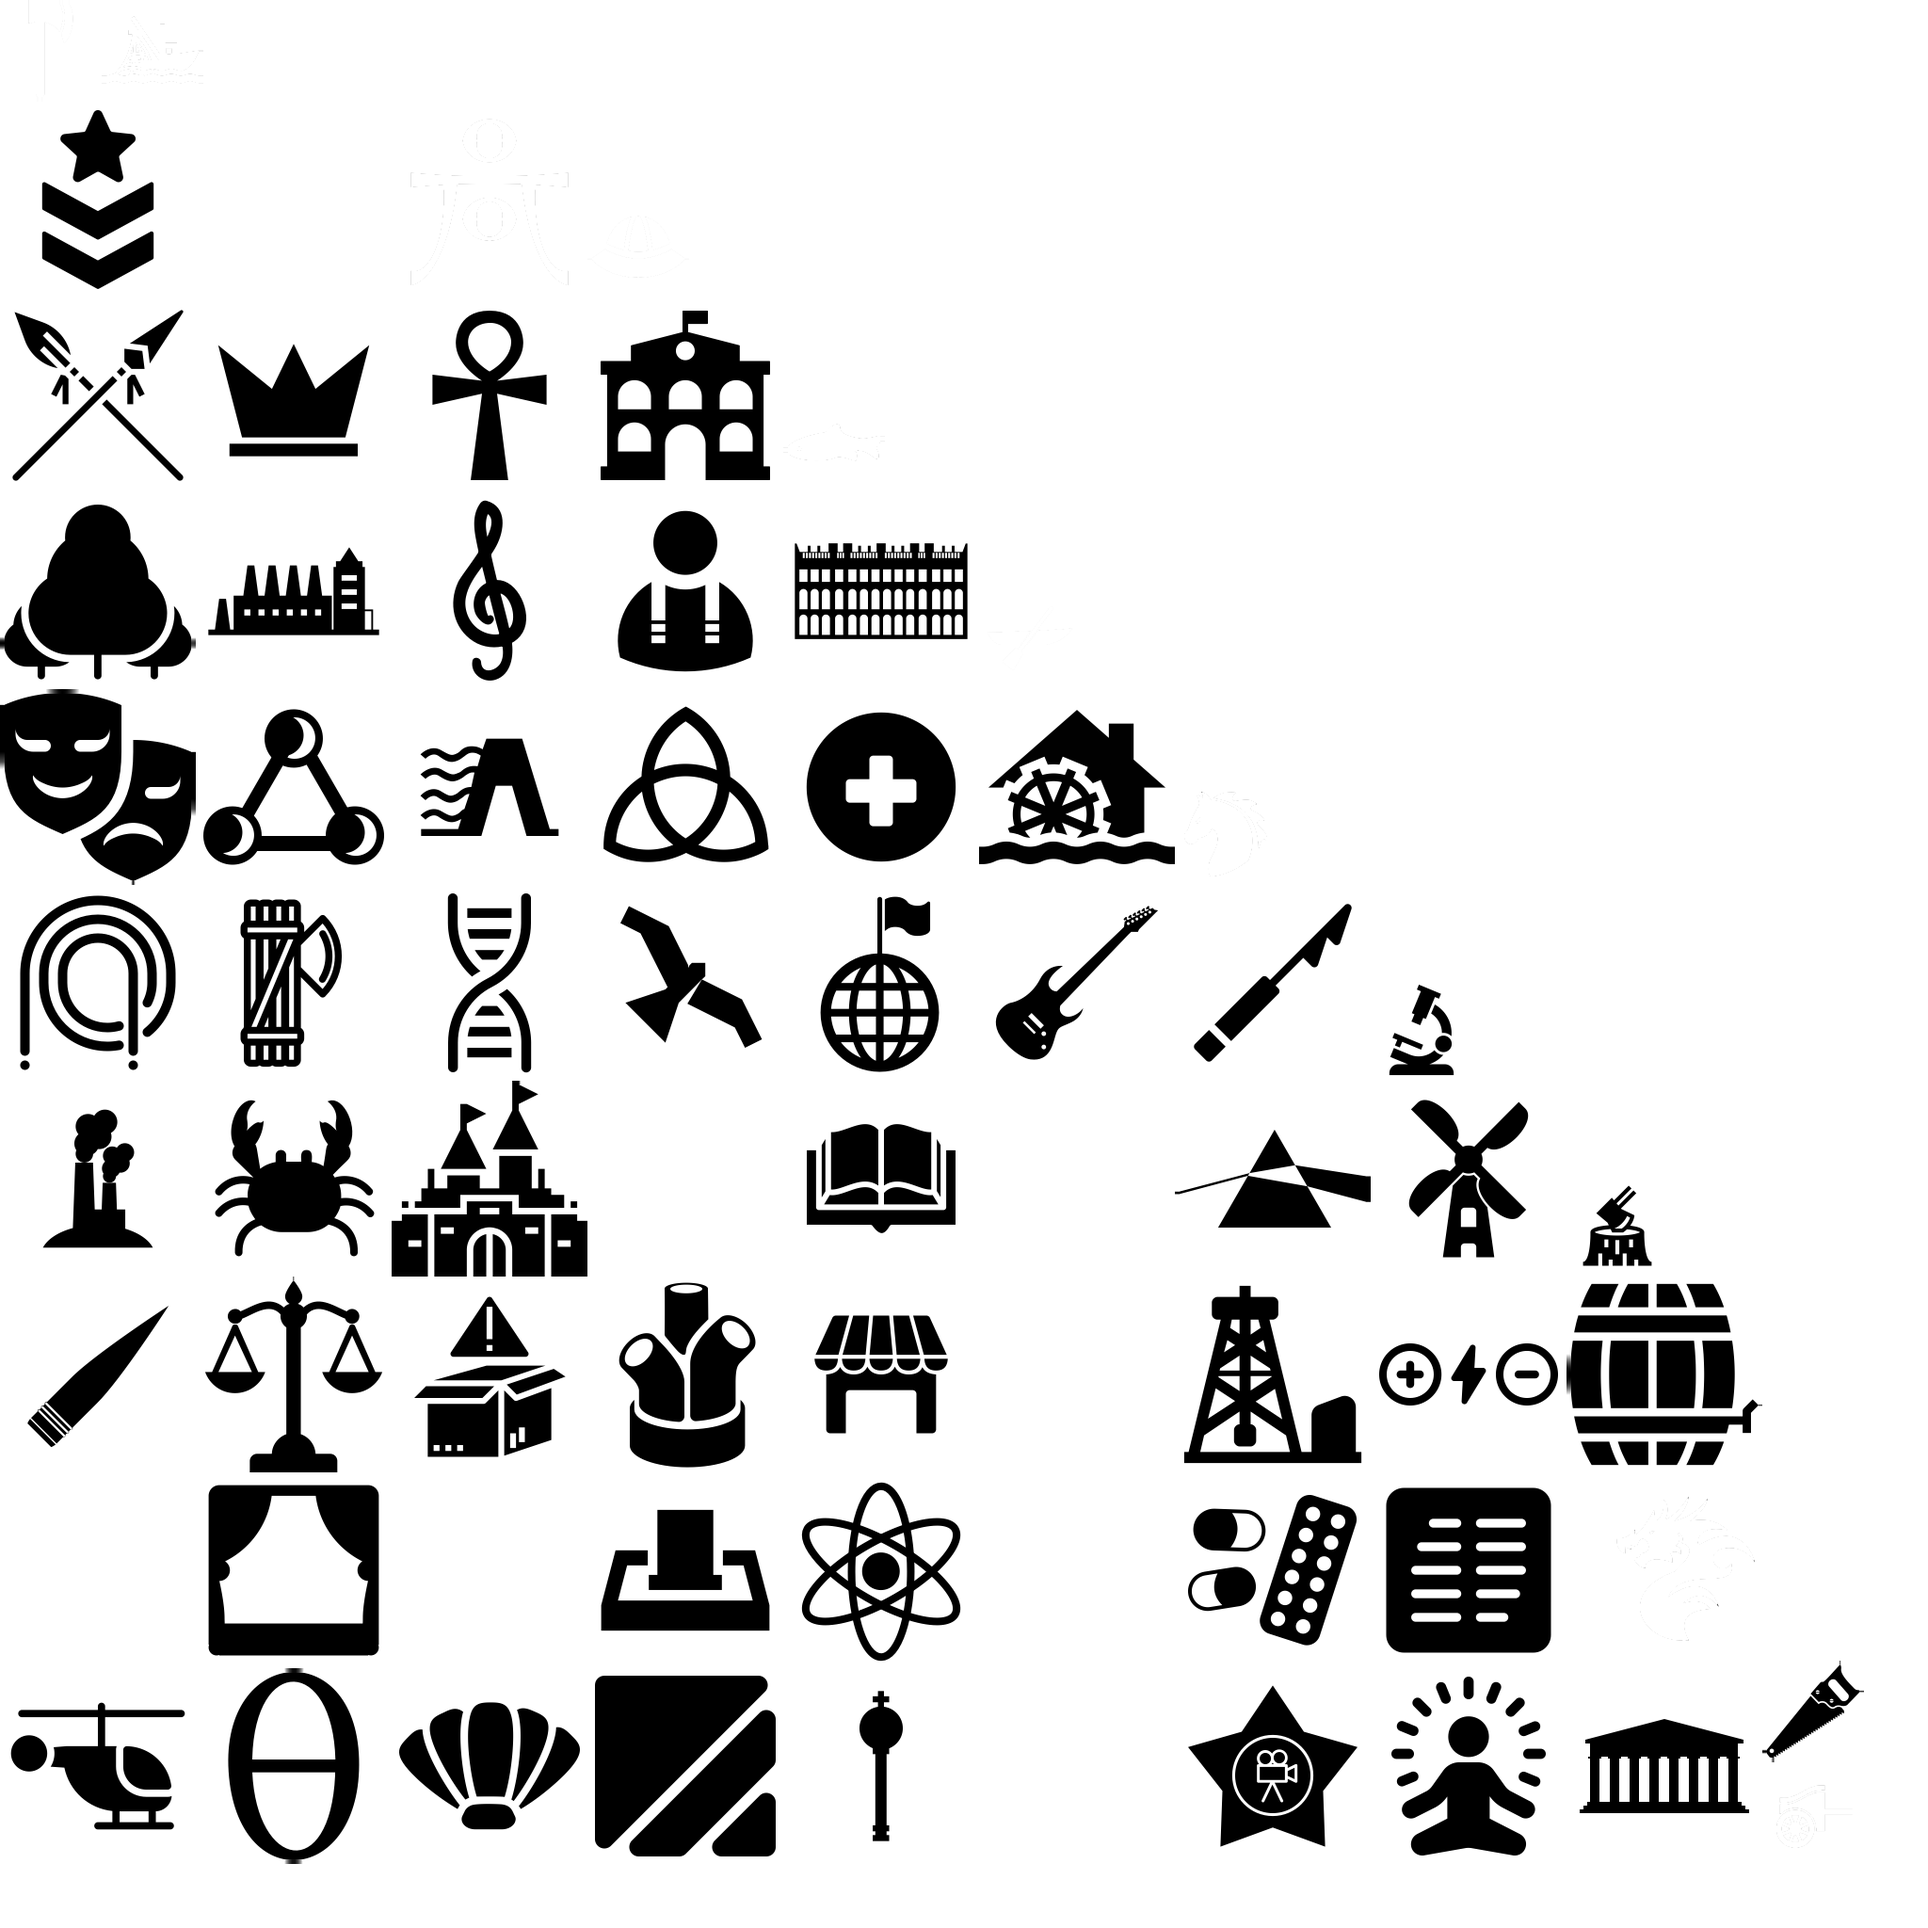
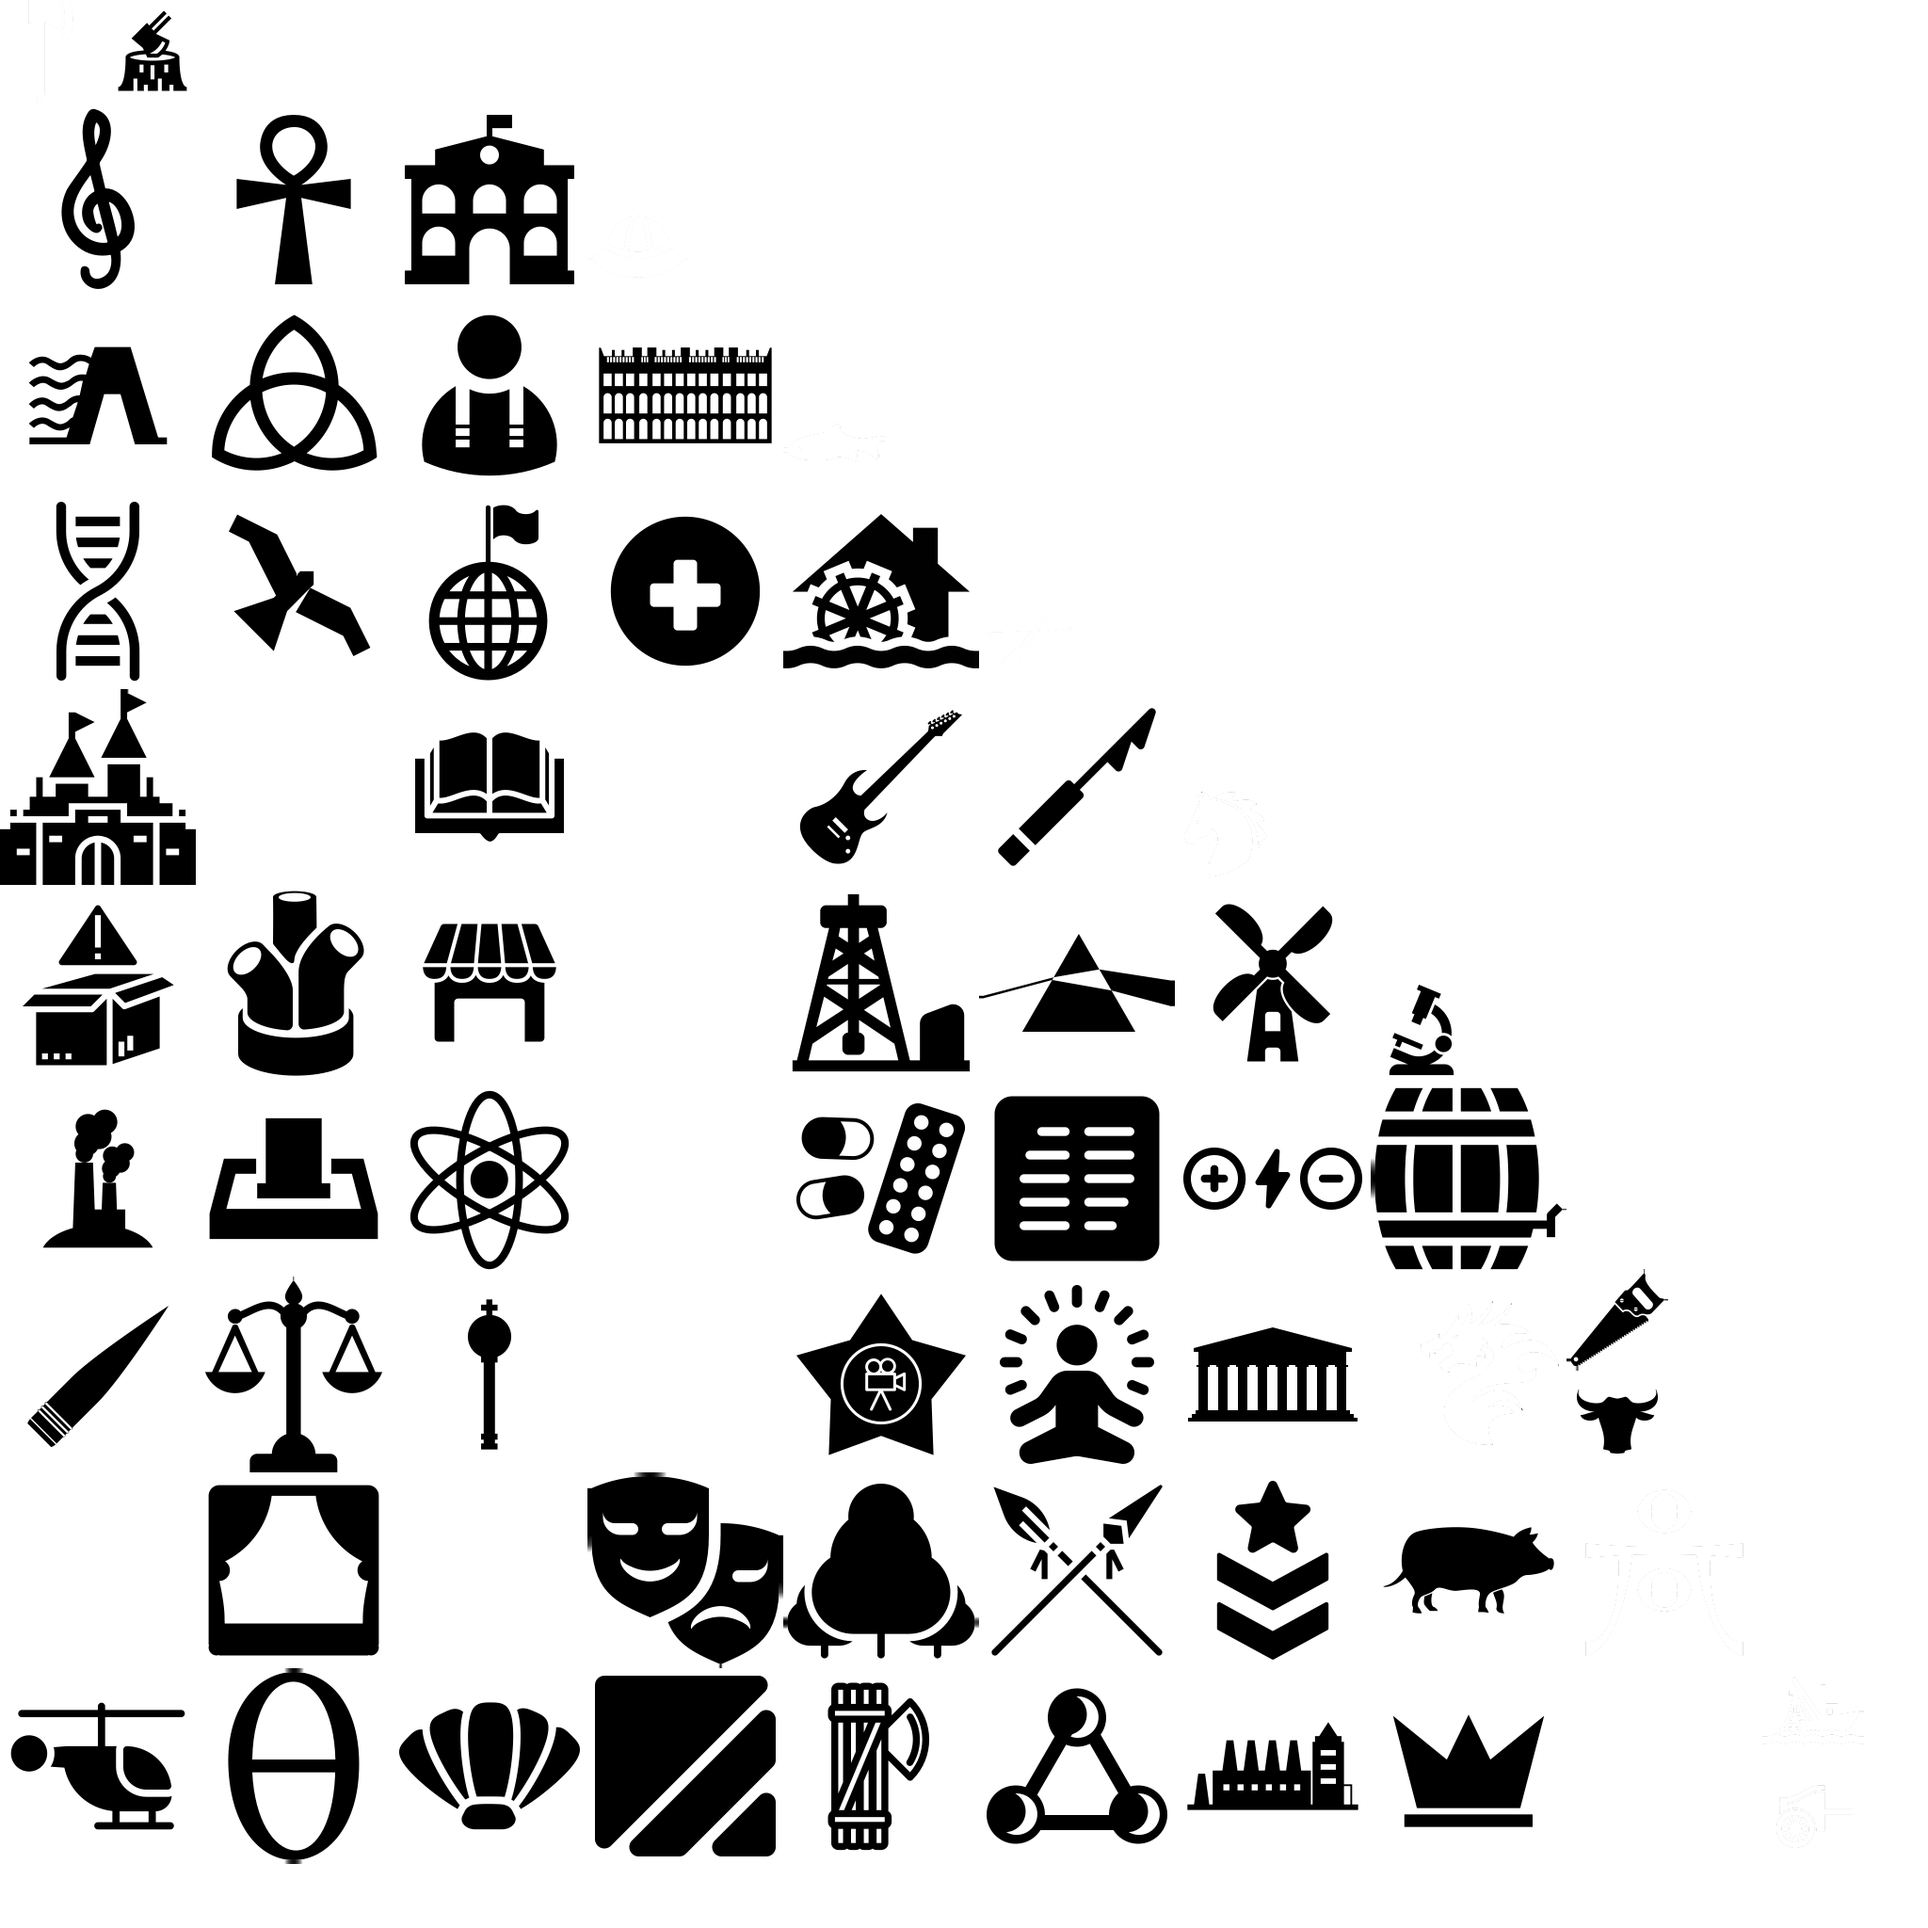
Massive update

Changed region(s): [[0.0, 0.0625, 0.9688, 0.9688], [0.0625, 0.0, 0.0938, 0.0625]]

diff --git a/README.md b/README.md
@@ -1,4 +1,5 @@
 # Unciv-IV-mod
+
 A Civ IV mod for Unciv
 
 
@@ -19,7 +20,7 @@ All images are from The Noun Project, Creative Commons, unless otherwise specifi
 - [Theater](https://thenounproject.com/icon/theater-3402158/) by Melvin Salas for Broadway
 - [power plant with coal](https://thenounproject.com/icon/power-plant-with-coal-2403687/) by Verry for Coal Plant
 
-#### Improvements  
+#### Improvements
 
 - [Harpoon](https://thenounproject.com/icon/harpoon-2152678/) by Deemak Daksina for Whaling Boats
 - [Oil Well](https://thenounproject.com/icon/oil-well-2052285/) by Vectors Market
@@ -27,7 +28,7 @@ All images are from The Noun Project, Creative Commons, unless otherwise specifi
 
 #### Units
 
-- [Grenade](https://thenounproject.com/icon/grenade-1082454/) by Viktor Korobkov for Grenadier 
+- [Grenade](https://thenounproject.com/icon/grenade-1082454/) by Viktor Korobkov for Grenadier
 - [Airship](https://thenounproject.com/icon/airship-1696860/) by Deemak Daksina
 
 #### Technologies
@@ -61,3 +62,7 @@ All images are from The Noun Project, Creative Commons, unless otherwise specifi
 - [Hills](https://thenounproject.com/icon/hills-1229071/) by Andrew Doane for Guerrilla
 - [U turn](https://thenounproject.com/icon/u-turn-472952/) by Yu luck for Flanking
 - [Pinch](https://thenounproject.com/icon/pinch-2583431/) by Bombasticon Studio
+
+## Resources
+
+- [Pig](https://thenounproject.com/icon/pig-1021476/) by Bakunetsu Kaito
